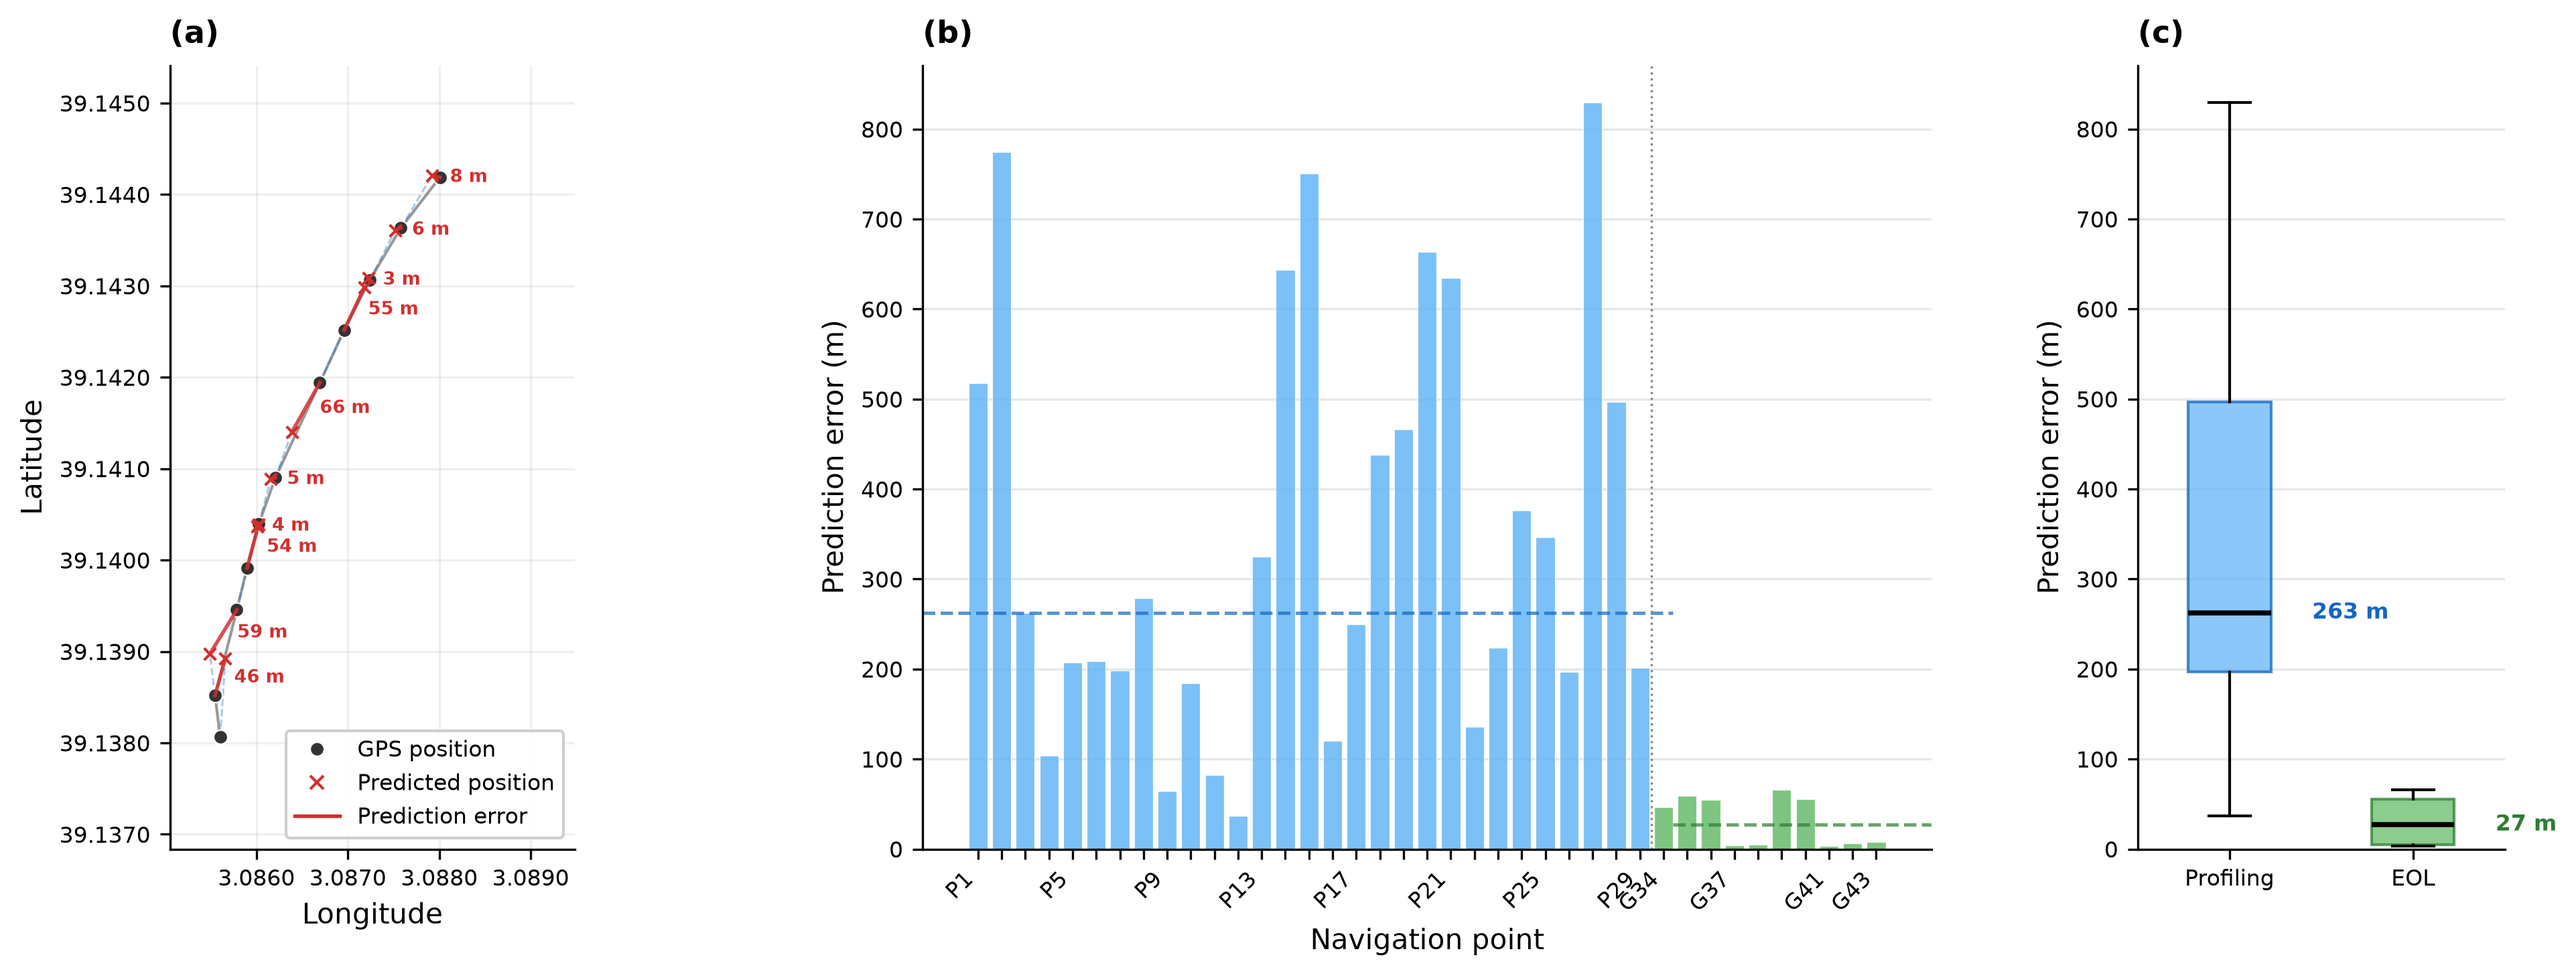
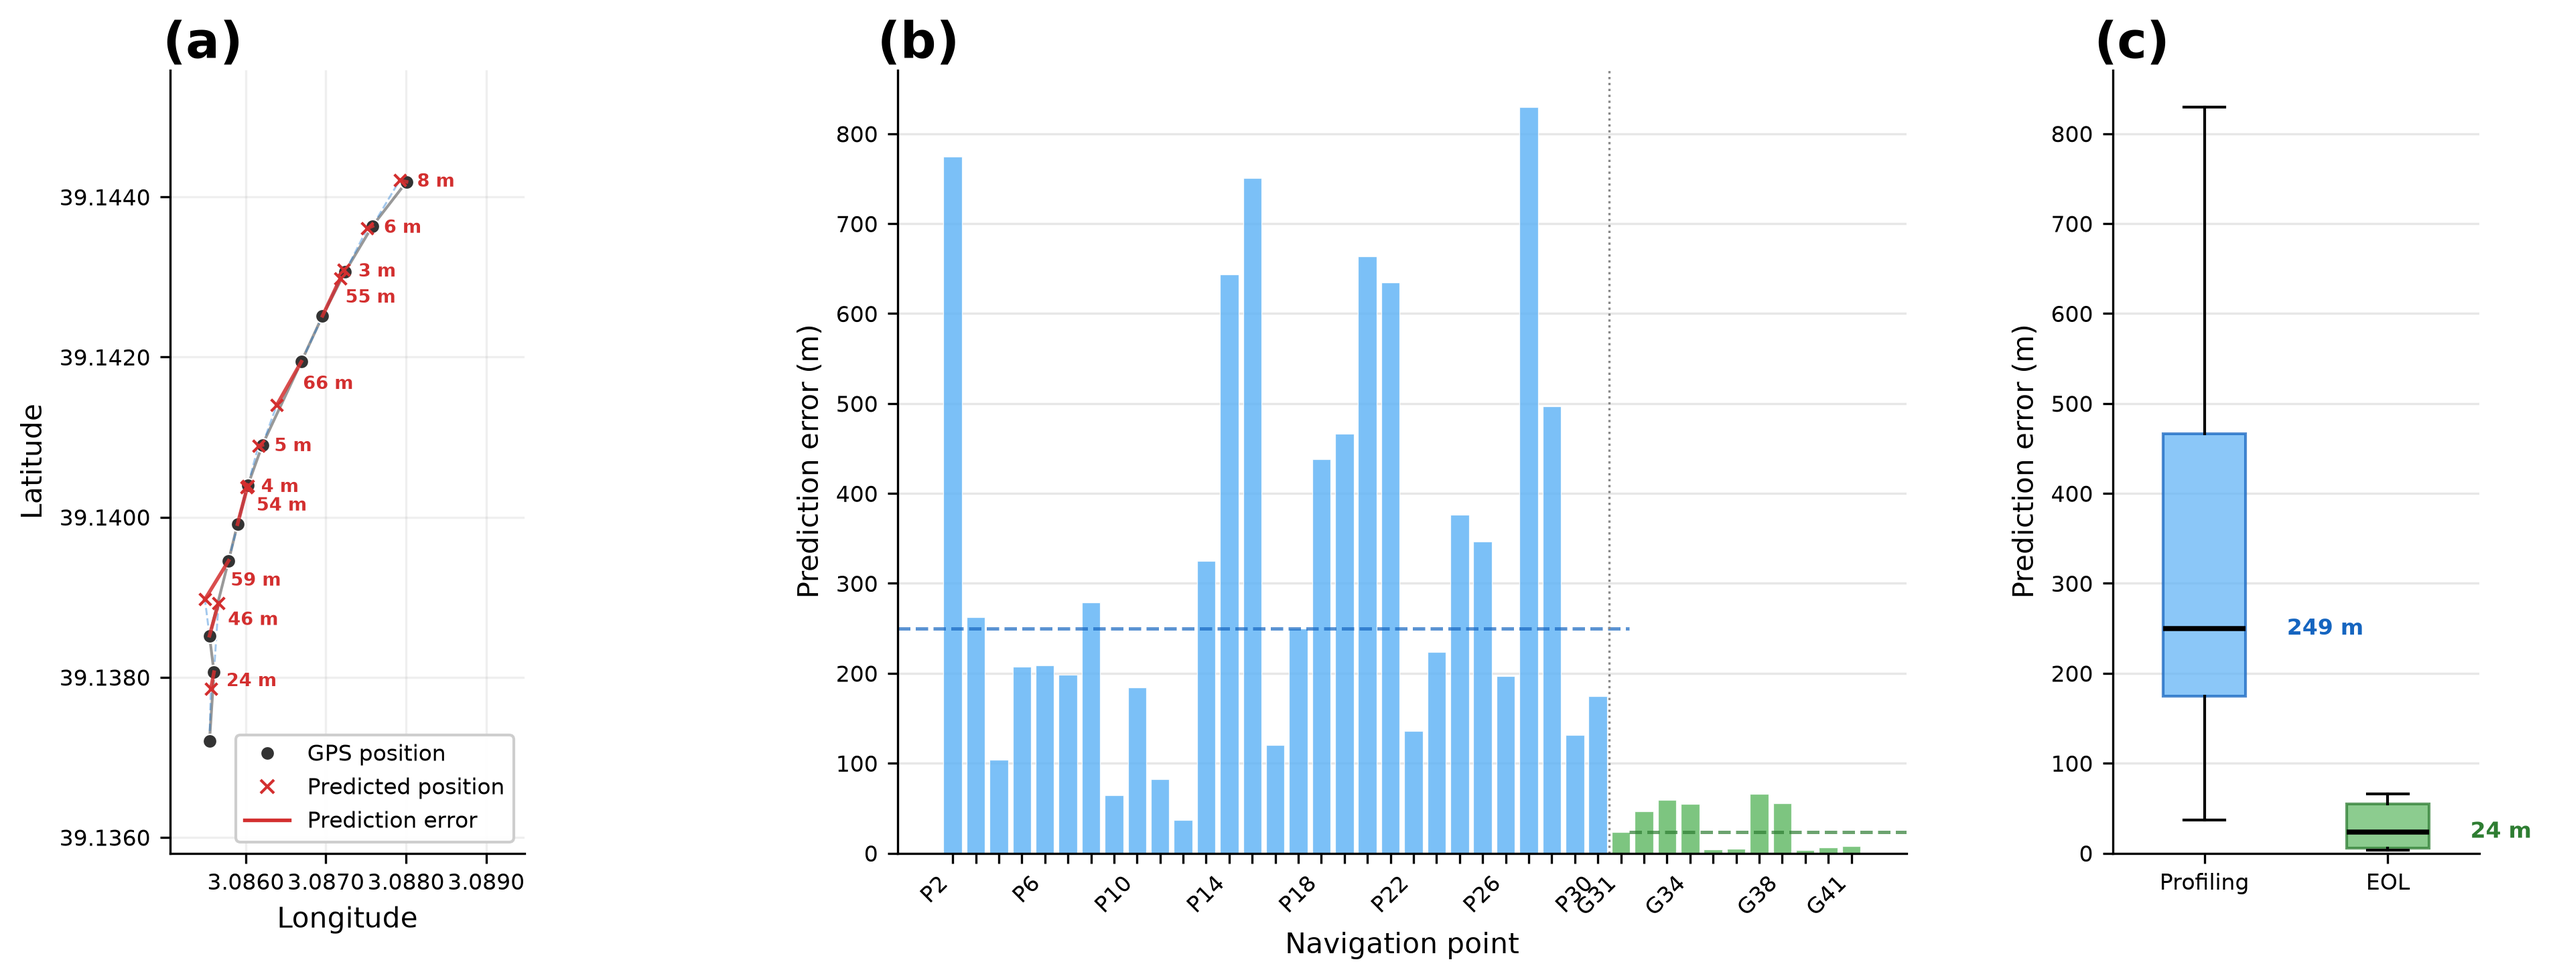
docs: update validation table and regenerate prediction figure with correct ranges (P1-P30, G31-G41)

diff --git a/README.md b/README.md
@@ -67,8 +67,8 @@ The prediction is most reliable after two consecutive GPS fixes of the same type
 
 | Mode | N predictions | Median error | Mean error | Max |
 |------|--------------|-------------|------------|-----|
-| Profiling | 29 | 263 m | 345 m | 829 m |
-| EOL | 10 | 27 m | 31 m | 66 m |
+| Profiling | 29 | 249 m | 331 m | 829 m |
+| EOL | 11 | 24 m | 30 m | 66 m |
 
 <p align="center">
   <img src="./assets/prediction_validation.png" width="100%" alt="Position prediction validation">
